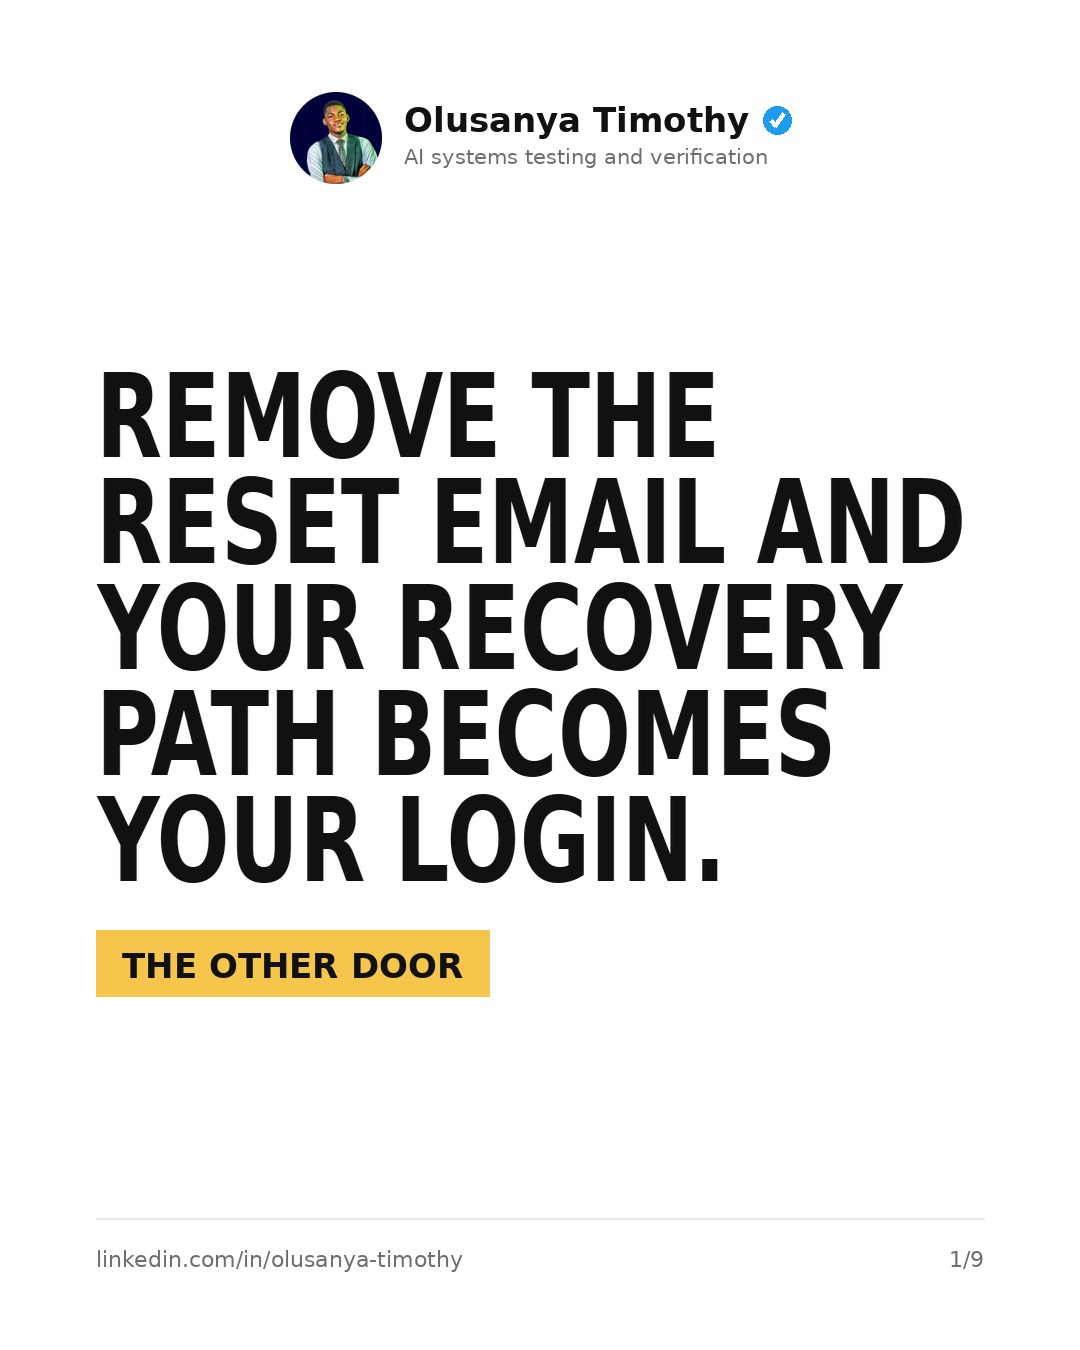
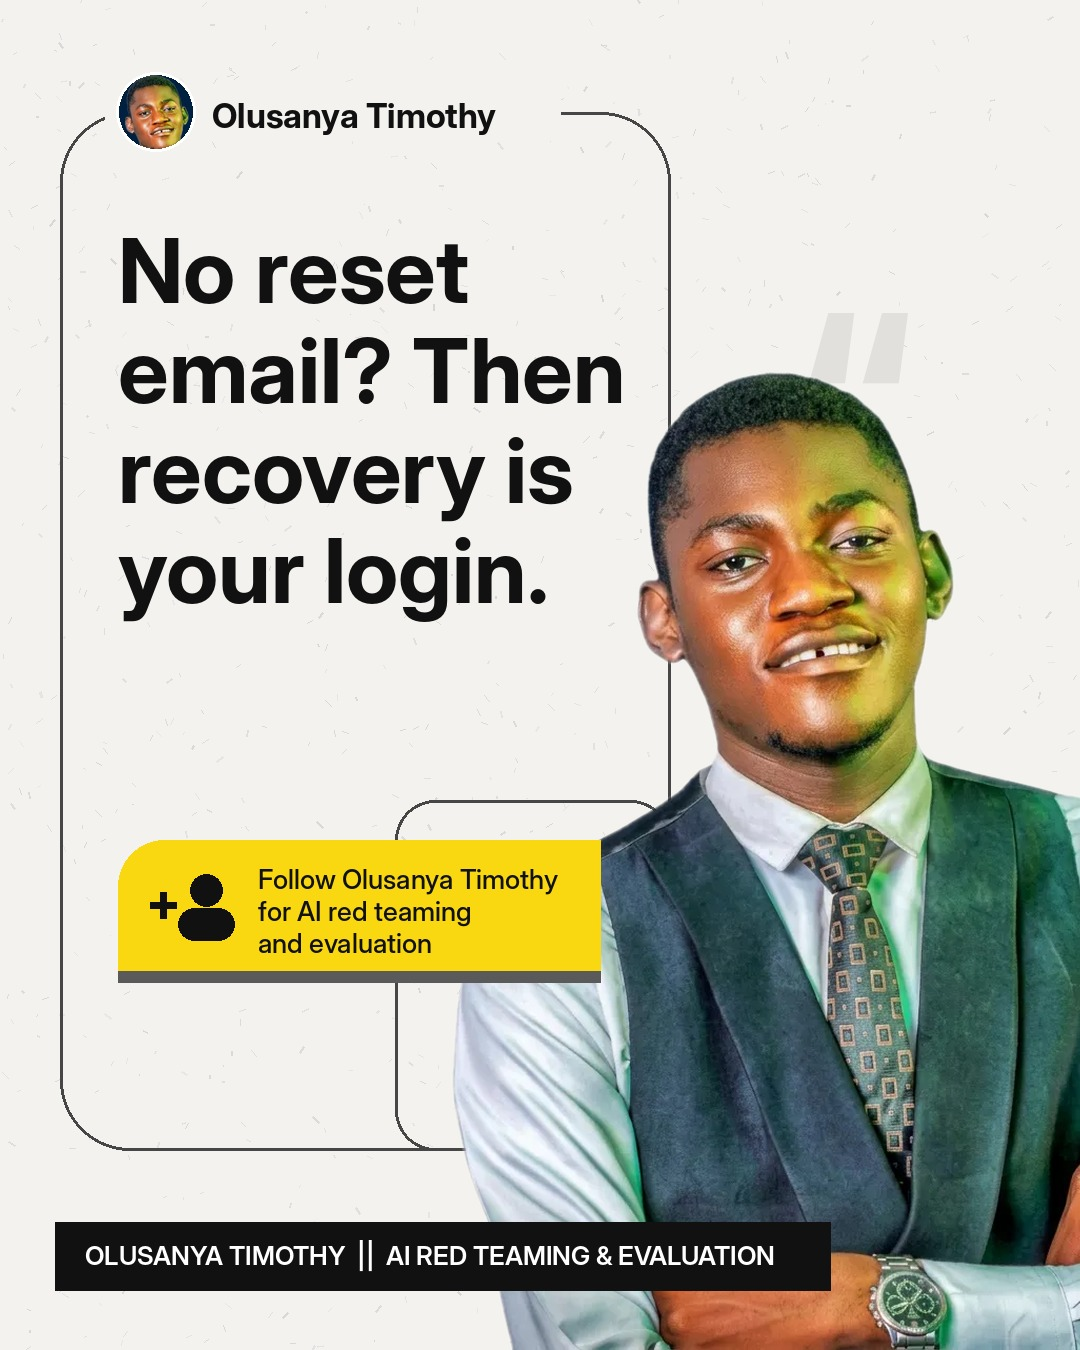
DOCS: portrait card layout for the 21 Nov post
- VISUAL/portrait_card.py: the layout the owner chose from the Tolu study, no verified tick
- ASSETS/brand: the owner's vest photograph, cut out
- cover.png and cover.jpg re-rendered in the new layout

Claude-Session: https://claude.ai/code/session_01SyhAAo97TA3vu74oUXhSG4

diff --git a/linkedin_emphire/VISUAL/portrait_card.py b/linkedin_emphire/VISUAL/portrait_card.py
@@ -1,0 +1,64 @@
+#!/usr/bin/env python3
+"""Portrait card, layout B from the Tolu study (DAILY CONTENT/2026-11-20_tolu-study_posts-and-cards.md).
+
+Off-white ground, thin outline frame, name chip, heavy headline left, cut-out portrait right,
+yellow follow box, black name bar. No verified tick: the profile is not verified.
+
+    python3 VISUAL/portrait_card.py ASSETS/brand/portrait_vest_cutout.png "Headline." VERIFIED_POSTS/<slug>/visual/cover.png 90
+"""
+import sys, random
+from PIL import Image, ImageDraw, ImageFont, ImageFilter
+cut, headline, out = sys.argv[1], sys.argv[2], sys.argv[3]
+W,H=1080,1350
+F='/usr/share/fonts/opentype/inter/'
+bold=lambda s:ImageFont.truetype(F+'InterDisplay-Bold.otf',s)
+semi=lambda s:ImageFont.truetype(F+'InterDisplay-SemiBold.otf',s)
+med=lambda s:ImageFont.truetype(F+'InterDisplay-Medium.otf',s)
+INK=(17,17,17); YEL=(249,216,17); LINE=(70,70,70)
+c=Image.new('RGB',(W,H),(243,242,238)); d=ImageDraw.Draw(c)
+random.seed(7)
+for _ in range(900):  # paper speckle
+    x,y=random.randrange(W),random.randrange(H); r=random.choice((1,1,2))
+    g=random.randrange(215,232); d.line((x,y,x+random.randrange(-6,7),y+random.randrange(-6,7)),fill=(g,g,g),width=r)
+# frame
+d.rounded_rectangle((60,112,670,1150),radius=70,outline=LINE,width=3)
+d.rounded_rectangle((395,800,670,1150),radius=40,outline=LINE,width=3)
+# quote mark
+d.text((800,250),'“',font=bold(260),fill=(225,224,220))
+# portrait
+p=Image.open(cut).convert('RGBA'); bb=p.getbbox(); p=p.crop(bb)
+ph=980; pw=int(p.width*ph/p.height); p=p.resize((pw,ph),Image.LANCZOS)
+c.paste(p,(450,H-ph),p)
+d=ImageDraw.Draw(c)
+# chip over the frame's top line
+d.rectangle((105,85,560,140),fill=(243,242,238))
+src=Image.open(cut).convert('RGBA'); face=src.crop((330,90,690,450)).resize((76,76),Image.LANCZOS)
+av=Image.new('RGB',(76,76),(0,32,64)); av.paste(face,(0,0),face)
+mask=Image.new('L',(76,76),0); ImageDraw.Draw(mask).ellipse((0,0,75,75),fill=255)
+c.paste(av,(118,74),mask); d.ellipse((116,72,195,151),outline=(255,255,255),width=3)
+d.text((212,95),'Olusanya Timothy',font=bold(34),fill=INK)
+# headline
+f=bold(int(sys.argv[4]) if len(sys.argv)>4 else 92); words=headline.split(); lines=[]; cur=''
+for w_ in words:
+    t=(cur+' '+w_).strip()
+    if d.textlength(t,font=f)<=520: cur=t
+    else: lines.append(cur); cur=w_
+lines.append(cur)
+y=215
+for ln in lines:
+    d.text((118,y),ln,font=f,fill=INK); y+=int(f.size*1.12)
+# follow box
+bx0,by0,bx1,by1=118,max(y+40,840),600,max(y+40,840)+130
+d.rectangle((bx0,by1,bx1,by1+12),fill=(90,90,90))
+d.rounded_rectangle((bx0,by0,bx1,by1),radius=46,fill=YEL,corners=(True,False,False,False))
+ix,iy=150,by0+38  # person-plus icon
+d.ellipse((ix+40,iy-4,ix+72,iy+28),fill=INK); d.rounded_rectangle((ix+28,iy+30,ix+84,iy+62),radius=16,fill=INK)
+d.rectangle((ix,iy+24,ix+26,iy+30),fill=INK); d.rectangle((ix+10,iy+14,ix+16,iy+40),fill=INK)
+tf=med(27); tx=ix+108
+for i,t in enumerate(['Follow Olusanya Timothy','for AI red teaming','and evaluation']):
+    d.text((tx,by0+22+i*32),t,font=tf,fill=INK)
+# name bar
+d.rectangle((55,1222,830,1290),fill=INK)
+d.text((85,1239),'OLUSANYA TIMOTHY  ||  AI RED TEAMING & EVALUATION',font=semi(26),fill=(255,255,255))
+c.save(out); c.convert('RGB').save(out.rsplit('.',1)[0]+'.jpg',quality=92)
+print(len(lines),'lines, box at',by0)

diff --git a/linkedin_emphire/VERIFIED_POSTS/INDEX.md b/linkedin_emphire/VERIFIED_POSTS/INDEX.md
@@ -50,4 +50,4 @@
 | 27 | 2026-11-18 | vibe-coding-balance | AI Security / Software Engineering | TEMPLATE 1 (254w, human gate 100, headline pair 184 chars, box LOUD OR SILENT, 4 verified hashtags, card rendered) | READY - 18 Nov morning slot. The trade-off is not speed against safety, it is whether the failure is loud and reversible; two questions a reader can apply before starting a ticket |
 | 28 | 2026-11-20 | record-outlives-the-file | AI Governance / AI Security | TEMPLATE 1 (250w, human gate 92, headline pair 171 chars, box OUTLIVES THE FILE, 4 verified hashtags, card rendered from VISUAL/post_visual.py with the owner's photograph) | READY - drafted 20 Nov 00:02 WAT for the morning slot. A deletion request turns the audit trail into the problem, so the record has to pick a side before anyone asks; the argument is a design choice and deliberately cites no statute |
 | 29 | 2026-11-20 | the-sentence-with-a-signature | AI Governance / AI Security | TEMPLATE 1 (221w, human gate 100, headline pair 134 chars, box WITH A SIGNATURE, 4 verified hashtags, card rendered from VISUAL/post_visual.py with the owner's photograph) | READY - drafted 20 Nov 03:47 WAT. The listing is the occasion, not the subject: going public changes what a lab can claim rather than what it can build, so the question becomes what can be shown to a stranger. No figure is quoted, and the post says why. |
-| 30 | 2026-11-21 | the-door-built-in-a-week | AI Security / AI Red Team | TEMPLATE 6 (230w, human gate 100, headline pair 149 chars, box THE OTHER DOOR, 4 verified hashtags, card rendered from VISUAL/post_visual.py) | READY - drafted 21 Nov 05:05 WAT for the Saturday slot. Drop the reset email and the recovery path you rebuild is the door attackers try first; extends to agent credential revoke and reissue, and ends on three questions the reader can check. Names no person, company or product, and says why it carries no statistic |
+| 30 | 2026-11-21 | the-door-built-in-a-week | AI Security / AI Red Team | TEMPLATE 6 (230w, human gate 100, headline pair 149 chars, box THE OTHER DOOR, 4 verified hashtags, portrait card from VISUAL/portrait_card.py with the owner's photograph) | READY - drafted 21 Nov 05:05 WAT for the Saturday slot. Drop the reset email and the recovery path you rebuild is the door attackers try first; extends to agent credential revoke and reissue, and ends on three questions the reader can check. Names no person, company or product, and says why it carries no statistic |

diff --git a/linkedin_emphire/VERIFIED_POSTS/2026-11-21_the-door-built-in-a-week/post.md b/linkedin_emphire/VERIFIED_POSTS/2026-11-21_the-door-built-in-a-week/post.md
@@ -19,6 +19,9 @@ subheadline_alt2: >-
   An account recovery path with no email behind it has to carry its own safety checks.
 box: THE OTHER DOOR
 box_alt: LOST EVERYTHING
+card: >-
+  Portrait layout, VISUAL/portrait_card.py, owner's photograph, cover.png and cover.jpg. Card line is the short form
+  of the headline: No reset email? Then recovery is your login. The type-only carousel pages stay beside it.
 hashtags: ["#AISecurity", "#AIRedTeam", "#AIEvaluation", "#AIEngineering"]
 premise: >-
   Observational post for Saturday 21 Nov 2026. Systems that drop email for passkeys lose the reset link that quietly did
